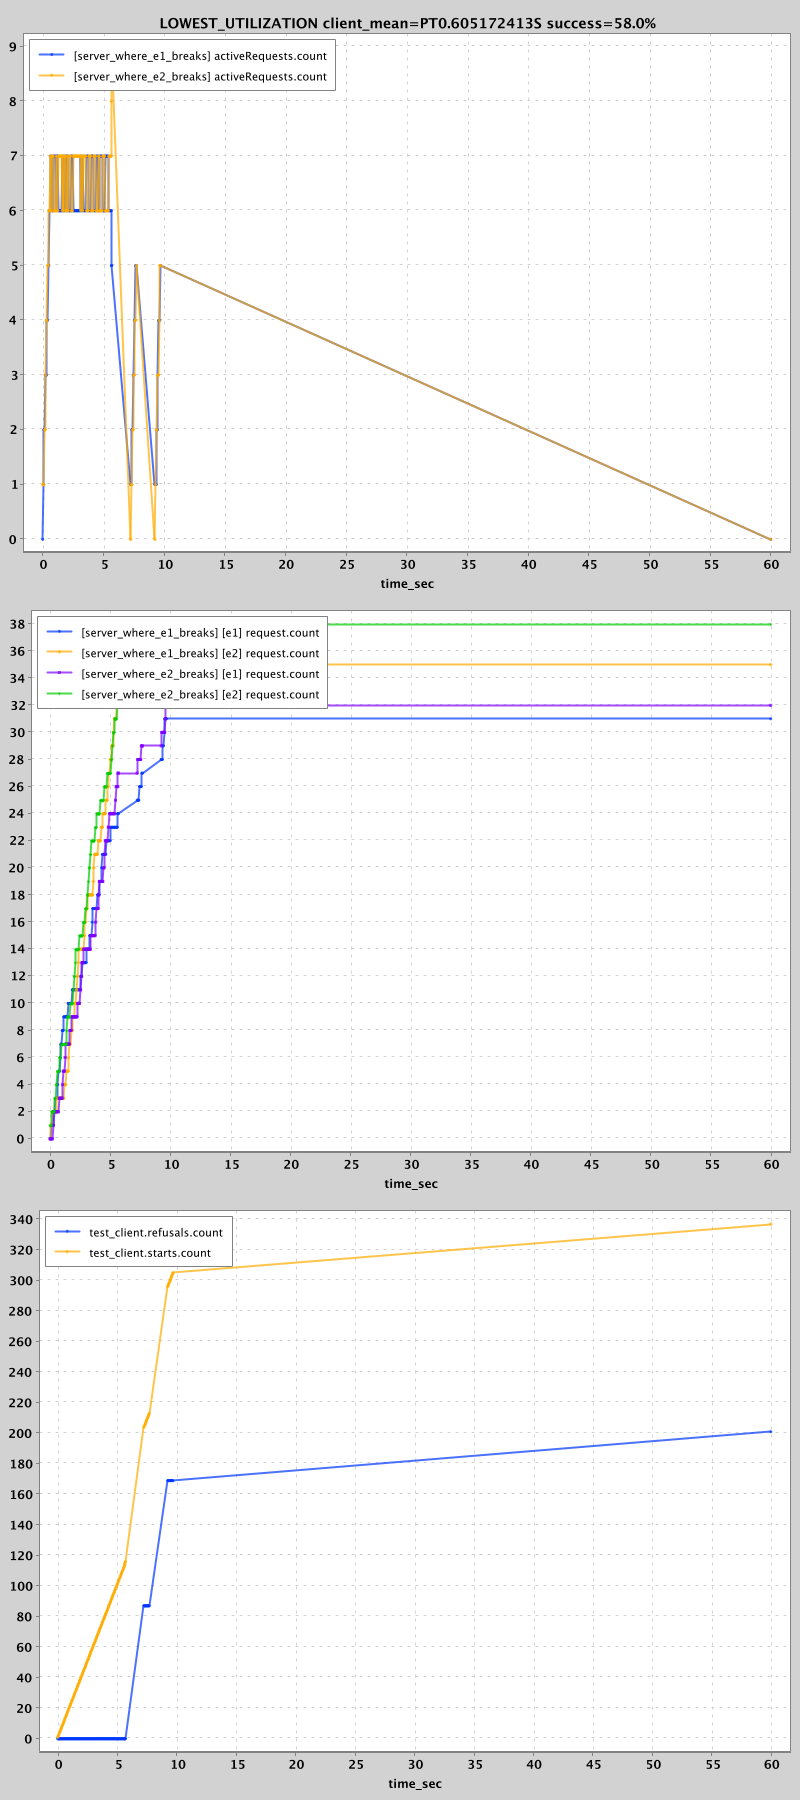
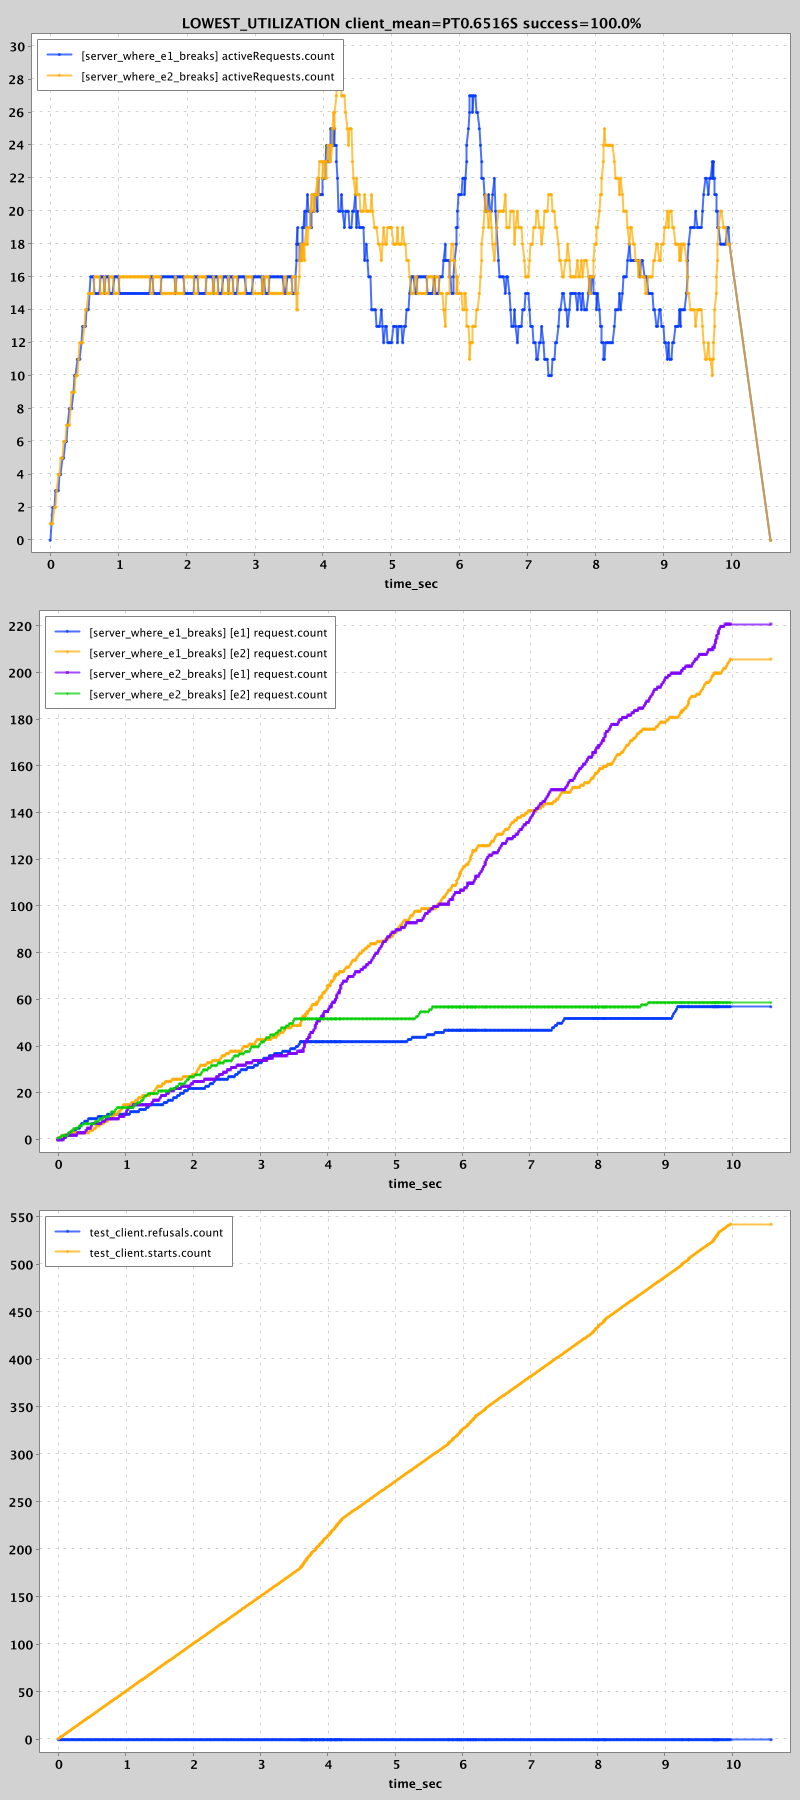
Per-endpoint blacklisting!

diff --git a/dialogue-core/src/main/java/com/palantir/dialogue/core/BlacklistingChannel.java b/dialogue-core/src/main/java/com/palantir/dialogue/core/BlacklistingChannel.java
@@ -16,6 +16,8 @@
 
 package com.palantir.dialogue.core;
 
+import com.github.benmanes.caffeine.cache.Cache;
+import com.github.benmanes.caffeine.cache.Caffeine;
 import com.github.benmanes.caffeine.cache.Ticker;
 import com.google.common.annotations.VisibleForTesting;
 import com.google.common.util.concurrent.FutureCallback;
@@ -48,8 +50,7 @@ final class BlacklistingChannel implements LimitedChannel {
     private final LimitedChannel delegate;
     private final Duration duration;
     private final Ticker ticker;
-
-    private volatile BlacklistState state = NoRestrictions.INSTANCE;
+    private final Cache<Endpoint, BlacklistState> perEndpointBlacklistState;
 
     BlacklistingChannel(LimitedChannel delegate, Duration duration) {
         this(delegate, duration, Ticker.systemTicker());
@@ -60,48 +61,60 @@ final class BlacklistingChannel implements LimitedChannel {
         this.delegate = delegate;
         this.duration = duration;
         this.ticker = ticker;
+        this.perEndpointBlacklistState = Caffeine.newBuilder().maximumSize(1000).ticker(ticker).build();
     }
 
     @Override
     public Optional<ListenableFuture<Response>> maybeExecute(Endpoint endpoint, Request request) {
-        if (state instanceof BlacklistUntil && stillBlacklisted((BlacklistUntil) state)) {
-            return Optional.empty();
-        }
+        BlacklistState state = perEndpointBlacklistState.getIfPresent(endpoint);
 
-        if (state instanceof Probation) {
-            Probation probation = (Probation) state;
-            if (probation.acquireStartPermit()) {
-                log.debug("Probation channel request allowed");
-                return delegate.maybeExecute(endpoint, request).map(future ->
-                        DialogueFutures.addDirectCallback(future, new BlacklistingCallback(Optional.of(probation))));
-            } else {
-                log.debug("Probation channel request not allowed");
-                return Optional.empty();
+        if (state != null) {
+            if (state instanceof BlacklistUntil) {
+                if (ticker.read() < ((BlacklistUntil) state).untilNanos) {
+                    return Optional.empty();
+                }
+
+                state = beginProbation(endpoint);
+            }
+
+            if (state instanceof Probation) {
+                Probation probation = (Probation) state;
+                if (probation.acquireStartPermit()) {
+                    log.debug("Probation channel request allowed");
+                    return delegate.maybeExecute(endpoint, request).map(future -> DialogueFutures.addDirectCallback(
+                            future, new BlacklistingCallback(Optional.of(probation), endpoint)));
+                } else {
+                    log.debug("Probation channel request not allowed");
+                    return Optional.empty();
+                }
             }
         }
 
-        return delegate.maybeExecute(endpoint, request)
-                .map(future -> DialogueFutures.addDirectCallback(future, new BlacklistingCallback(Optional.empty())));
+        return delegate.maybeExecute(endpoint, request).map(future ->
+                DialogueFutures.addDirectCallback(future, new BlacklistingCallback(Optional.empty(), endpoint)));
     }
 
-    private void blacklist() {
-        state = new BlacklistUntil(ticker.read() + duration.toNanos());
+    private void blacklist(Endpoint endpoint) {
+        perEndpointBlacklistState.put(endpoint, new BlacklistUntil(ticker.read() + duration.toNanos()));
     }
 
-    private boolean stillBlacklisted(BlacklistUntil blacklistUntil) {
-        if (ticker.read() < blacklistUntil.untilNanos) {
-            return true;
-        }
+    private Probation beginProbation(Endpoint endpoint) {
+        Probation probation = new Probation(NUM_PROBATION_REQUESTS);
+        perEndpointBlacklistState.put(endpoint, probation);
+        return probation;
+    }
 
-        state = new Probation(NUM_PROBATION_REQUESTS);
-        return false;
+    private void probationComplete(Endpoint endpoint) {
+        perEndpointBlacklistState.invalidate(endpoint);
     }
 
     private final class BlacklistingCallback implements FutureCallback<Response> {
         private final Optional<Probation> probationPermit;
+        private final Endpoint endpoint;
 
-        private BlacklistingCallback(Optional<Probation> probationPermit) {
+        private BlacklistingCallback(Optional<Probation> probationPermit, Endpoint endpoint) {
             this.probationPermit = probationPermit;
+            this.endpoint = endpoint;
         }
 
         @Override
@@ -112,16 +125,16 @@ final class BlacklistingChannel implements LimitedChannel {
                         "Blacklisting {} due to status code {}",
                         UnsafeArg.of("delegate", delegate),
                         SafeArg.of("code", response.code()));
-                blacklist();
+                blacklist(endpoint);
             } else if (probationPermit.isPresent() && probationPermit.get().checkIfProbationIsComplete()) {
                 log.debug("Probation is complete");
-                state = NoRestrictions.INSTANCE;
+                probationComplete(endpoint);
             }
         }
 
         @Override
         public void onFailure(Throwable _throwable) {
-            blacklist();
+            blacklist(endpoint);
         }
     }
 
@@ -132,10 +145,6 @@ final class BlacklistingChannel implements LimitedChannel {
 
     // I wish java had union types
     interface BlacklistState {}
-
-    private enum NoRestrictions implements BlacklistState {
-        INSTANCE
-    }
 
     private static final class BlacklistUntil implements BlacklistState {
         private final long untilNanos;

diff --git a/simulation/src/test/java/com/palantir/dialogue/core/SimulationTest.java b/simulation/src/test/java/com/palantir/dialogue/core/SimulationTest.java
@@ -299,7 +299,7 @@ public class SimulationTest {
                     .simulation(simulation)
                     .handler(endpoint1, h -> h.response(200).responseTime(Duration.ofMillis(600)))
                     .handler(endpoint2, h -> h.response(200).responseTime(Duration.ofMillis(600)))
-                    .until(Duration.ofSeconds(5))
+                    .until(Duration.ofSeconds(3))
                     .handler(endpoint1, h -> h.response(500).responseTime(Duration.ofMillis(600)))
                     .handler(endpoint2, h -> h.response(200).responseTime(Duration.ofMillis(600)))
                     .build(),
@@ -308,7 +308,7 @@ public class SimulationTest {
                     .simulation(simulation)
                     .handler(endpoint1, h -> h.response(200).responseTime(Duration.ofMillis(600)))
                     .handler(endpoint2, h -> h.response(200).responseTime(Duration.ofMillis(600)))
-                    .until(Duration.ofSeconds(5))
+                    .until(Duration.ofSeconds(3))
                     .handler(endpoint1, h -> h.response(200).responseTime(Duration.ofMillis(600)))
                     .handler(endpoint2, h -> h.response(500).responseTime(Duration.ofMillis(600)))
                     .build()
@@ -318,7 +318,7 @@ public class SimulationTest {
 
         result = Benchmark.builder()
                 .simulation(simulation)
-                .requestsPerSecond(20)
+                .requestsPerSecond(50)
                 .sendUntil(Duration.ofSeconds(10))
                 .randomEndpoints(endpoint1, endpoint2)
                 .abortAfter(Duration.ofMinutes(1))

diff --git a/dialogue-core/src/test/java/com/palantir/dialogue/core/BlacklistingChannelTest.java b/dialogue-core/src/test/java/com/palantir/dialogue/core/BlacklistingChannelTest.java
@@ -17,6 +17,7 @@
 package com.palantir.dialogue.core;
 
 import static org.assertj.core.api.Assertions.assertThat;
+import static org.mockito.Mockito.mock;
 import static org.mockito.Mockito.when;
 
 import com.github.benmanes.caffeine.cache.Ticker;
@@ -69,6 +70,21 @@ public class BlacklistingChannelTest {
 
         futureResponse.setException(new IllegalStateException());
         assertThat(channel.maybeExecute(endpoint, request)).isEmpty();
+    }
+
+    @Test
+    public void blacklisted_endpoint_doesnt_affect_other_endpoint() {
+        assertThat(channel.maybeExecute(endpoint, request)).contains(futureResponse);
+        futureResponse.setException(new IllegalStateException());
+        assertThat(channel.maybeExecute(endpoint, request)).isEmpty();
+
+        Endpoint endpoint2 = mock(Endpoint.class);
+        SettableFuture<Response> future2 = SettableFuture.create();
+        when(delegate.maybeExecute(endpoint2, request)).thenReturn(Optional.of(future2));
+        assertThat(channel.maybeExecute(endpoint2, request)).contains(future2);
+        futureResponse.setException(new IllegalStateException());
+
+        assertThat(channel.maybeExecute(endpoint2, request)).isPresent();
     }
 
     @Test
